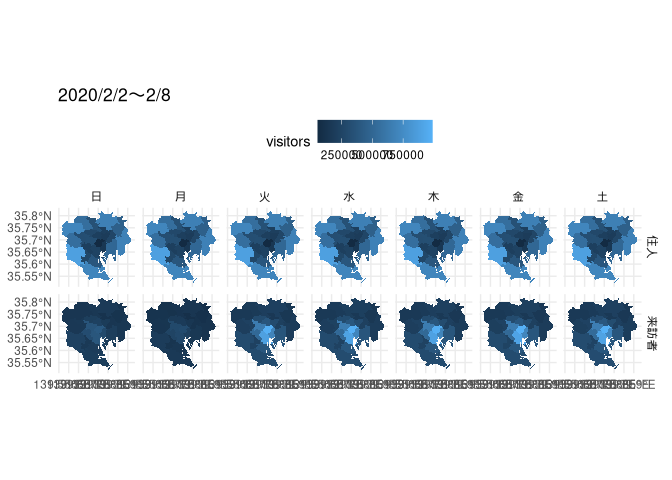
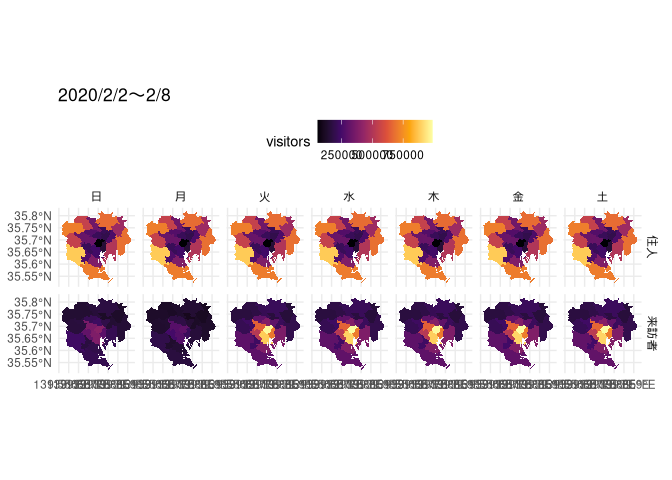
Add a plot

Changed region(s): [[0.0938, 0.4375, 0.9688, 0.5938], [0.0938, 0.625, 0.9688, 0.7812], [0.4688, 0.25, 0.6562, 0.3125]]

diff --git a/README.md b/README.md
@@ -66,6 +66,7 @@ d2 %>%
   facet_grid(rows = vars(対象分類), cols = vars(day)) +
   theme_minimal() +
   theme(legend.position = "top") +
+  scale_fill_viridis_c(option = "B") +
   ggtitle("2020/2/2〜2/8")
 ```
 
@@ -85,3 +86,25 @@ ggplot(d_mean, aes(week_begin, rel_visitors, colour = 市区町村名)) +
 ```
 
 ![](README_files/figure-gfm/plot_changes-1.png)<!-- -->
+
+住民は無視しても良さそうなので、来訪者のみの変化を見る
+
+``` r
+d_mean_de_facto <- d_mean %>% 
+  filter(対象分類 == "来訪者") %>% 
+  mutate(week_id = group_indices(., week_begin))
+
+library(gganimate)
+
+ggplot(d_mean_de_facto) +
+  geom_sf(aes(fill = rel_visitors), colour = NA) +
+  facet_grid(cols = vars(is_holiday)) +
+  theme_minimal() +
+  theme(legend.position = "top") +
+  scale_fill_viridis_c(option = "B") +
+  labs(title = "Week: {frame_time}") +
+  transition_time(week_id) +
+  ease_aes('linear')
+```
+
+![](README_files/figure-gfm/animate-1.gif)<!-- -->
